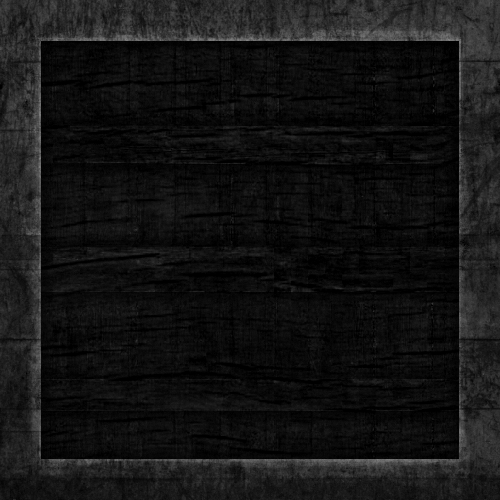
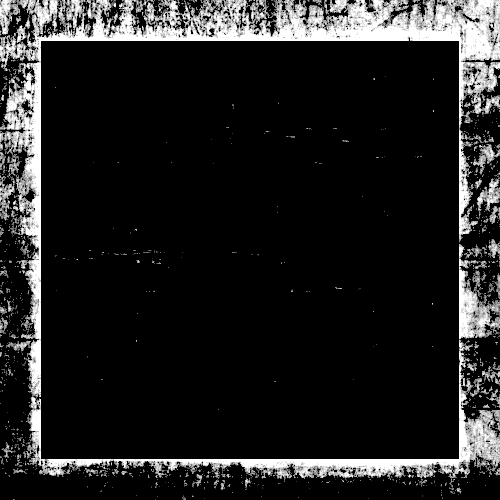
Need to work on spotlight

diff --git a/OGL/src/Cube.cpp b/OGL/src/Cube.cpp
@@ -1,37 +1,37 @@
 #include "Cube.h" 
 
 float positions[] = {
-	// Positions			 // Colors                // Texture Coords		// Normals
+	// Positions			 // Colors             // Texture Coords// Normals
 	// Front face 
-	-50.0f, -50.0f,  50.0f,  1.0f, 0.0f, 0.0f, 1.0f,  0.0f, 0.0f,  	0.0f, 0.0f, 1.0f,
-	 50.0f, -50.0f,  50.0f,  0.0f, 1.0f, 0.0f, 1.0f,  1.0f, 0.0f,  	0.0f, 0.0f, 1.0f,
-	 50.0f,  50.0f,  50.0f,  0.0f, 0.0f, 1.0f, 1.0f,  1.0f, 1.0f,  	0.0f, 0.0f, 1.0f,
-	-50.0f,  50.0f,  50.0f,  1.0f, 1.0f, 0.0f, 1.0f,  0.0f, 1.0f,  	0.0f, 0.0f, 1.0f,
-	// Back face
-	-50.0f, -50.0f, -50.0f,  1.0f, 0.0f, 0.0f, 1.0f,  0.0f, 0.0f,  	0.0f, 0.0f, -1.0f,
-	 50.0f, -50.0f, -50.0f,  0.0f, 1.0f, 0.0f, 1.0f,  1.0f, 0.0f,  	0.0f, 0.0f, -1.0f,
-	 50.0f,  50.0f, -50.0f,  0.0f, 0.0f, 1.0f, 1.0f,  1.0f, 1.0f,  	0.0f, 0.0f, -1.0f,
-	-50.0f,  50.0f, -50.0f,  1.0f, 1.0f, 0.0f, 1.0f,  0.0f, 1.0f,  	0.0f, 0.0f, -1.0f,
-	// Left face
-	-50.0f, -50.0f, -50.0f,  1.0f, 0.0f, 0.0f, 1.0f,  0.0f, 0.0f,  -1.0f, 0.0f, 0.0f,
-	-50.0f, -50.0f,  50.0f,  0.0f, 1.0f, 0.0f, 1.0f,  1.0f, 0.0f,  -1.0f, 0.0f, 0.0f,
-	-50.0f,  50.0f,  50.0f,  0.0f, 0.0f, 1.0f, 1.0f,  1.0f, 1.0f,  -1.0f, 0.0f, 0.0f,
-	-50.0f,  50.0f, -50.0f,  1.0f, 1.0f, 0.0f, 1.0f,  0.0f, 1.0f,  -1.0f, 0.0f, 0.0f,
-	// Right face
-	 50.0f, -50.0f, -50.0f,  1.0f, 0.0f, 0.0f, 1.0f,  0.0f, 0.0f,   1.0f, 0.0f, 0.0f,
-	 50.0f, -50.0f,  50.0f,  0.0f, 1.0f, 0.0f, 1.0f,  1.0f, 0.0f,  	1.0f, 0.0f, 0.0f,
-	 50.0f,  50.0f,  50.0f,  0.0f, 0.0f, 1.0f, 1.0f,  1.0f, 1.0f,  	1.0f, 0.0f, 0.0f,
-	 50.0f,  50.0f, -50.0f,  1.0f, 1.0f, 0.0f, 1.0f,  0.0f, 1.0f,  	1.0f, 0.0f, 0.0f,
-	 // Top face
-	-50.0f,  50.0f,  50.0f,  1.0f, 0.0f, 0.0f, 1.0f,  0.0f, 0.0f,  	0.0f, 1.0f, 0.0f,
-	 50.0f,  50.0f,  50.0f,  0.0f, 1.0f, 0.0f, 1.0f,  1.0f, 0.0f,  	0.0f, 1.0f, 0.0f,
-	 50.0f,  50.0f, -50.0f,  0.0f, 0.0f, 1.0f, 1.0f,  1.0f, 1.0f,  	0.0f, 1.0f, 0.0f,
-	-50.0f,  50.0f, -50.0f,  1.0f, 1.0f, 0.0f, 1.0f,  0.0f, 1.0f,  	0.0f, 1.0f, 0.0f,
-	// Bottom face
-    -50.0f, -50.0f,  50.0f,  1.0f, 0.0f, 0.0f, 1.0f,  0.0f, 0.0f,	0.0f,-1.0f, 0.0f,
-	 50.0f, -50.0f,  50.0f,  0.0f, 1.0f, 0.0f, 1.0f,  1.0f, 0.0f,  	0.0f,-1.0f, 0.0f,
-	 50.0f, -50.0f, -50.0f,  0.0f, 0.0f, 1.0f, 1.0f,  1.0f, 1.0f,  	0.0f,-1.0f, 0.0f,
-    -50.0f, -50.0f, -50.0f,  1.0f, 1.0f, 0.0f, 1.0f,  0.0f, 1.0f,  	0.0f,-1.0f, 0.0f
+	-1.0f, -1.0f,  1.0f,  1.0f, 0.0f, 0.0f, 1.0f,  0.0f, 0.0f,  	0.0f, 0.0f, 1.0f,
+	 1.0f, -1.0f,  1.0f,  0.0f, 1.0f, 0.0f, 1.0f,  1.0f, 0.0f,  	0.0f, 0.0f, 1.0f,
+	 1.0f,  1.0f,  1.0f,  0.0f, 0.0f, 1.0f, 1.0f,  1.0f, 1.0f,  	0.0f, 0.0f, 1.0f,
+	-1.0f,  1.0f,  1.0f,  1.0f, 1.0f, 0.0f, 1.0f,  0.0f, 1.0f,  	0.0f, 0.0f, 1.0f,
+	//Back f1e
+	-1.0f, -1.0f, -1.0f,  1.0f, 0.0f, 0.0f, 1.0f,  0.0f, 0.0f,  	0.0f, 0.0f, -1.0f,
+	 1.0f, -1.0f, -1.0f,  0.0f, 1.0f, 0.0f, 1.0f,  1.0f, 0.0f,  	0.0f, 0.0f, -1.0f,
+	 1.0f,  1.0f, -1.0f,  0.0f, 0.0f, 1.0f, 1.0f,  1.0f, 1.0f,  	0.0f, 0.0f, -1.0f,
+	-1.0f,  1.0f, -1.0f,  1.0f, 1.0f, 0.0f, 1.0f,  0.0f, 1.0f,  	0.0f, 0.0f, -1.0f,
+	//Left f1e
+	-1.0f, -1.0f, -1.0f,  1.0f, 0.0f, 0.0f, 1.0f,  0.0f, 0.0f,	   -1.0f, 0.0f, 0.0f,
+	-1.0f, -1.0f,  1.0f,  0.0f, 1.0f, 0.0f, 1.0f,  1.0f, 0.0f,	   -1.0f, 0.0f, 0.0f,
+	-1.0f,  1.0f,  1.0f,  0.0f, 0.0f, 1.0f, 1.0f,  1.0f, 1.0f,     -1.0f, 0.0f, 0.0f,
+	-1.0f,  1.0f, -1.0f,  1.0f, 1.0f, 0.0f, 1.0f,  0.0f, 1.0f,     -1.0f, 0.0f, 0.0f,
+	//Right ce
+	 1.0f, -1.0f, -1.0f,  1.0f, 0.0f, 0.0f, 1.0f,  0.0f, 0.0f,      1.0f, 0.0f, 0.0f,
+	 1.0f, -1.0f,  1.0f,  0.0f, 1.0f, 0.0f, 1.0f,  1.0f, 0.0f,  	1.0f, 0.0f, 0.0f,
+	 1.0f,  1.0f,  1.0f,  0.0f, 0.0f, 1.0f, 1.0f,  1.0f, 1.0f,  	1.0f, 0.0f, 0.0f,
+	 1.0f,  1.0f, -1.0f,  1.0f, 1.0f, 0.0f, 1.0f,  0.0f, 1.0f,  	1.0f, 0.0f, 0.0f,
+	 //Top f1e
+	-1.0f,  1.0f,  1.0f,  1.0f, 0.0f, 0.0f, 1.0f,  0.0f, 0.0f,  	0.0f, 1.0f, 0.0f,
+	 1.0f,  1.0f,  1.0f,  0.0f, 1.0f, 0.0f, 1.0f,  1.0f, 0.0f,  	0.0f, 1.0f, 0.0f,
+	 1.0f,  1.0f, -1.0f,  0.0f, 0.0f, 1.0f, 1.0f,  1.0f, 1.0f,  	0.0f, 1.0f, 0.0f,
+	-1.0f,  1.0f, -1.0f,  1.0f, 1.0f, 0.0f, 1.0f,  0.0f, 1.0f,  	0.0f, 1.0f, 0.0f,
+	//Bottom1ace
+	-1.0f, -1.0f,  1.0f,  1.0f, 0.0f, 0.0f, 1.0f,  0.0f, 0.0f,		0.0f,-1.0f, 0.0f,
+	 1.0f, -1.0f,  1.0f,  0.0f, 1.0f, 0.0f, 1.0f,  1.0f, 0.0f,  	0.0f,-1.0f, 0.0f,
+	 1.0f, -1.0f, -1.0f,  0.0f, 0.0f, 1.0f, 1.0f,  1.0f, 1.0f,  	0.0f,-1.0f, 0.0f,
+    -1.0f, -1.0f, -1.0f,  1.0f, 1.0f, 0.0f, 1.0f,  0.0f, 1.0f,  	0.0f,-1.0f, 0.0f
 };
 
 unsigned int indices[] = {
@@ -88,13 +88,34 @@ void Cube::Draw(Renderer& renderer, const glm::mat4& proj, const glm::mat4& view
 	shader.SetUniformMat4f("projection", proj); 
 	shader.SetUniformMat4f("view", view); 
 	shader.SetUniformMat4f("model", model); 
+	shader.Setuniform3f("viewPosition", viewPosition.x, viewPosition.y, lightAmbient.z);
+
+
+	//Directional light properties
+	shader.Setuniform4f("directionalLight.direction", -0.2f, -1.0f, -0.3f, 0.0f);
+	shader.Setuniform4f("directionalLight.ambient", 0.05f, 0.05f, 0.05f, 1.0f);
+	shader.Setuniform4f("directionalLight.diffuse", 0.4f, 0.4f, 0.4f, 1.0f);
+	shader.Setuniform4f("directionalLight.specular", 0.5f, 0.5f, 0.5f, 1.0f);
 
 	//light properties
-	shader.Setuniform3f("light.position", lightPosition.x, lightPosition.y, lightPosition.z);
-	shader.Setuniform3f("light.ambient", lightAmbient.x, lightAmbient.y, lightAmbient.z);
-	shader.Setuniform3f("light.diffuse", lightDiffuse.x, lightDiffuse.y, lightDiffuse.z);
-	shader.Setuniform3f("light.specular", lightSpecular.x, lightSpecular.y, lightSpecular.z);
-	shader.Setuniform3f("viewPosition", viewPosition.x, viewPosition.y, lightAmbient.z);
+	shader.Setuniform4f("pointLight[0].position", 0.0f, 10.0f, 0.0f, 1.0f);
+	shader.Setuniform4f("pointLight[0].ambient",  lightAmbient.x, lightAmbient.y, lightAmbient.z, 1.0f);
+	shader.Setuniform4f("pointLight[0].diffuse",  lightDiffuse.x, lightDiffuse.y, lightDiffuse.z, 1.0f);
+	shader.Setuniform4f("pointLight[0].specular", lightSpecular.x, lightSpecular.y, lightSpecular.z, 1.0f);
+	shader.Setuniform1f("pointLight[0].constant", 1.0f);
+	shader.Setuniform1f("pointLight[0].linear", 0.0014f);
+	shader.Setuniform1f("pointLight[0].quadratic", 0.00007f);
+	//spot light properties
+	shader.Setuniform4f("spotLight.position", lightSpotPosition.x, lightSpotPosition.y, lightSpotPosition.z, 1.0f);
+	shader.Setuniform4f("spotLight.direction", 0.0f, -1.0f, 0.0f, 0.0f);
+	shader.Setuniform4f("spotLight.ambient", 0.05f, 0.05f, 0.05f, 1.0f);
+	shader.Setuniform4f("spotLight.diffuse", 1.0f, 0.0f, 0.0f, 1.0f);
+	shader.Setuniform4f("spotLight.specular", 1.0f, 1.0f, 1.0f, 1.0f);
+	shader.Setuniform1f("spotLight.constant", 1.0f);
+	shader.Setuniform1f("spotLight.linear", 0.9f);
+	shader.Setuniform1f("spotLight.quadratic", 0.82f);
+	shader.Setuniform1f("spotLight.cutOff", glm::cos(glm::radians(12.5f)));
+	shader.Setuniform1f("spotLight.outerCutOff", glm::cos(glm::radians(17.5f)));
 
 	//material properties
 	//shader.Setuniform3f("material.ambient", materialAmbient.x, materialAmbient.y, materialAmbient.z);
@@ -132,9 +153,36 @@ void Cube::SetMaterial(float shininess)
 	materialShininess = shininess;
 }
 
-void Cube::SetLightProperties(const glm::vec3& lightPos, const glm::vec3& lightAmbient, const glm::vec3& lightDiffuse, const glm::vec3& lightSpecular, const glm::vec3& viewPos)
+void Cube::SetLightProperties(const glm::vec3& lightPosition, const glm::vec3& lightAmbient, const glm::vec3& lightDiffuse, const glm::vec3& lightSpecular, const glm::vec3& viewPos)
 {
-	this->lightPosition = lightPos;
+	this->lightPosition = lightPosition;
+	this->lightAmbient = lightAmbient;
+	this->lightDiffuse = lightDiffuse;
+	this->lightSpecular = lightSpecular;
+	this->viewPosition = viewPos;
+}
+
+void Cube::SetDirectionalLightProperties(const glm::vec3& lightDirection, const glm::vec3& lightAmbient, const glm::vec3& lightDiffuse, const glm::vec3& lightSpecular)
+{
+	this->lightDirection = lightDirection;
+	this->lightAmbient = lightAmbient;
+	this->lightDiffuse = lightDiffuse;
+	this->lightSpecular = lightSpecular;
+}
+
+void Cube::SetPointLightProperties(const glm::vec3& lightPosition, const glm::vec3& lightAmbient, const glm::vec3& lightDiffuse, const glm::vec3& lightSpecular)
+{
+	this->lightPosition = lightPosition;
+	this->lightAmbient = lightAmbient;
+	this->lightDiffuse = lightDiffuse;
+	this->lightSpecular = lightSpecular;
+	
+}
+
+void Cube::SetSpotLightProperties(const glm::vec3& lightPosition, const glm::vec3& lightDirection, const glm::vec3& lightAmbient, const glm::vec3& lightDiffuse, const glm::vec3& lightSpecular, const glm::vec3& viewPos)
+{
+	this->lightPosition = lightPosition;
+	this->lightDirection = lightDirection;
 	this->lightAmbient = lightAmbient;
 	this->lightDiffuse = lightDiffuse;
 	this->lightSpecular = lightSpecular;

diff --git a/OGL/src/main.cpp b/OGL/src/main.cpp
@@ -143,13 +143,14 @@ int main(void)
 		Renderer renderer;
 
 		Cube cube[] = {
-			{glm::vec3(0.0f, 0.0f, 0.0f), glm::vec3(0.0f, 0.0f, 0.0f), glm::vec3(1.0f, 1.0f, 1.0f)},
-			{glm::vec3(300.0f, 50.0f, -150.0f), glm::vec3(0.0f, 0.0f, 0.0f), glm::vec3(1.0f, 1.0f, 1.0f)}
+			{glm::vec3(0.0f, 55.0f, 0.0f), glm::vec3(0.0f, 0.0f, 0.0f), glm::vec3(1.0f, 1.0f, 1.0f)},
+			{glm::vec3(0.0f, 50.0f, 0.0f), glm::vec3(0.0f, 0.0f, 0.0f), glm::vec3(1.0f, 1.0f, 1.0f)}
 		};
 		LightSource lightSource(glm::vec3(110.0f, 0.0f, 0.0f), glm::vec3(0.0f, 0.0f, 0.0f), glm::vec3(1.0f, 1.0f, 1.0f));
 
 		//Light Properties
-		glm::vec3 lightPosition = lightSource.GetPosition();
+		glm::vec3 lightPosition = glm::vec3(-0.2f, -1.0f, -0.3f);
+		glm::vec3 lightSpotPosition = glm::vec3(1.0f, 1.0f, 1.0f);
 		glm::vec3 lightAmbient = glm::vec3(0.2f, 0.2f, 0.2f);
 		glm::vec3 lightDiffuse = glm::vec3(0.5f, 0.5f, 0.5f);
 		glm::vec3 lightSpecular = glm::vec3(1.0f, 1.0f, 1.0f);
@@ -190,12 +191,13 @@ int main(void)
 			glm::mat4 proj = glm::perspective(glm::radians(camera.Zoom), (float)WIDTH / (float)HEIGHT, 0.1f, 1000.0f);
 			glm::mat4 view = camera.GetViewMatrix();
 			glm::vec3 viewPos = camera.Position;
+			glm::vec3 front = camera.Front;
 			for (auto& cube : cube) {
-				cube.SetLightProperties(glm::vec3(lightPosition), lightAmbient, lightDiffuse, lightSpecular, viewPos);
+				//cube.SetLightProperties(lightPosition, lightAmbient, lightDiffuse, lightSpecular, viewPos);
+				cube.SetSpotLightProperties(lightSpotPosition, front, lightAmbient, lightDiffuse, lightSpecular, viewPos);
 				cube.SetMaterial(materialShininess);
 				cube.Draw(renderer, proj, view);
 			}
-			lightPosition = glm::vec3(greenValue, 0, BlueValue);
 			lightSource.SetColor(lightDiffuse);
 			lightSource.SetPosition(lightPosition);
 			lightSource.Draw(renderer, proj, view);
@@ -210,6 +212,12 @@ int main(void)
 			// ImGui: Control light color 
 			ImGui::Begin("Light Control"); 
 			ImGui::ColorEdit3("Light Color", (float*)&lightDiffuse); 
+			ImGui::End();
+
+			ImGui::Begin("Light Position");
+			ImGui::SliderFloat("X", &lightSpotPosition.x, -100.0f, 100.0f);
+			ImGui::SliderFloat("Y", &lightSpotPosition.y, -100.0f, 100.0f);
+			ImGui::SliderFloat("Z", &lightSpotPosition.z, -100.0f, 100.0f);
 			ImGui::End();
 
 			ImGui::ShowDemoWindow(); // Show demo window! :)

diff --git a/OGL/src/Cube.h b/OGL/src/Cube.h
@@ -32,6 +32,25 @@ class Cube
 		glm::vec3 lightSpecular; 
 		glm::vec3 viewPosition;
 
+		//Directional light properties 
+		glm::vec3 lightDirection; 
+		glm::vec3 lightDirAmbient; 
+		glm::vec3 lightDirDiffuse; 
+		glm::vec3 lightDirSpecular;
+
+		//Point light properties 
+		glm::vec3 lightPointPosition; 
+		glm::vec3 lightPointAmbient; 
+		glm::vec3 lightPointDiffuse; 
+		glm::vec3 lightPointSpecular;
+
+		//Spot light properties 
+		glm::vec3 lightSpotPosition; 
+		glm::vec3 lightSpotDirection; 
+		glm::vec3 lightSpotAmbient; 
+		glm::vec3 lightSpotDiffuse; 
+		glm::vec3 lightSpotSpecular;
+
 	public: 
 		Cube(const glm::vec3& pos, const glm::vec3& rot, const glm::vec3& scale); 
 		~Cube();
@@ -43,7 +62,12 @@ class Cube
 		void SetRotation(const glm::vec3& rot); 
 		void SetScale(const glm::vec3& scale);
 		void SetMaterial(float shininess);
-		void SetLightProperties(const glm::vec3& lightPos, const glm::vec3& lightAmbient, const glm::vec3& lightDiffuse, const glm::vec3& lightSpecular, const glm::vec3& viewPos);
+		void SetLightProperties(const glm::vec3& lightPosition, const glm::vec3& lightAmbient, const glm::vec3& lightDiffuse, const glm::vec3& lightSpecular, const glm::vec3& viewPos);
+		void SetDirectionalLightProperties(const glm::vec3& lightDirection, const glm::vec3& lightAmbient, const glm::vec3& lightDiffuse, const glm::vec3& lightSpecular);
+		void SetPointLightProperties(const glm::vec3& lightPosition, const glm::vec3& lightAmbient, const glm::vec3& lightDiffuse, const glm::vec3& lightSpecular);
+		void SetSpotLightProperties(const glm::vec3& lightPosition, const glm::vec3& lightDirection, const glm::vec3& lightAmbient, const glm::vec3& lightDiffuse, const glm::vec3& lightSpecular, const glm::vec3& viewPos);
+
+
 
 		//Getters 
 		glm::vec3 GetPosition() const; 
